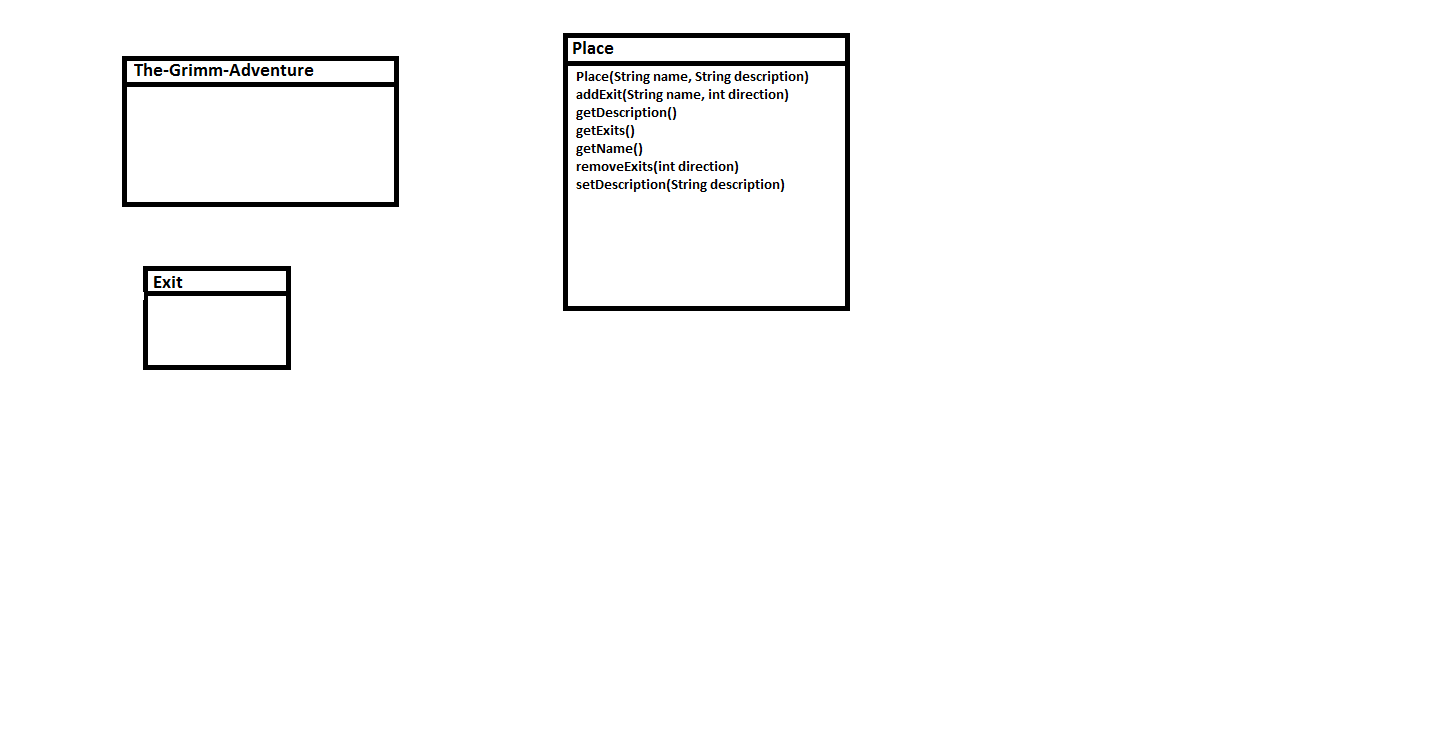
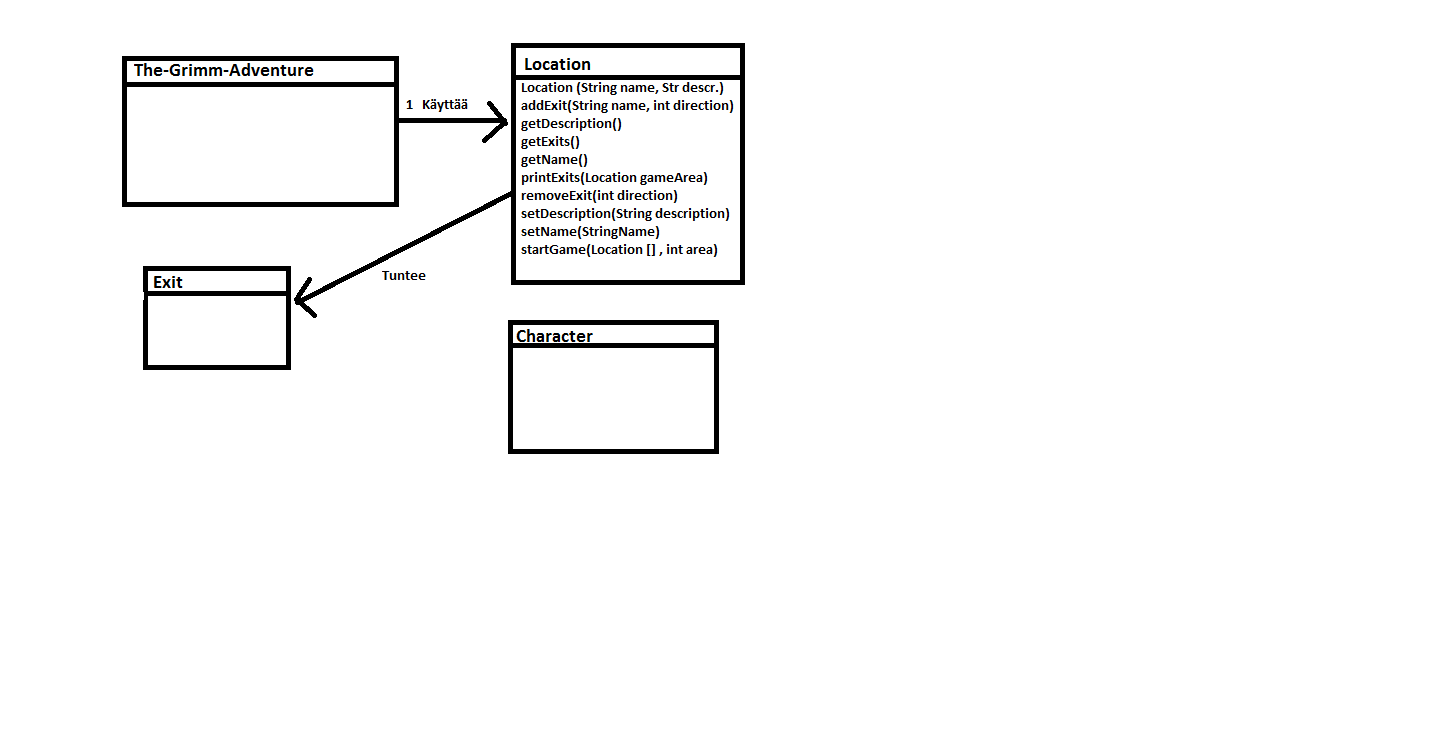
Ohjelman peruslogiikkaa tehty, Place luokka nimetty Locationiksi, Character luokka tehty, ei viela kaytossa, luokkakaavio uudelleen.

diff --git a/The-Grimm-Adventure/test/GrimmTest.java b/The-Grimm-Adventure/test/GrimmTest.java
@@ -3,7 +3,8 @@
  * and open the template in the editor.
  */
 
-import grimm.Place;
+import grimm.Location;
+import grimm.TheGrimmAdventure;
 import junit.framework.Assert;
 import org.junit.After;
 import org.junit.AfterClass;
@@ -41,22 +42,22 @@ public class GrimmTest {
     
     @Test
     public void constructorsNamingWorks() {
-        Place cave;
-        cave = new Place("Cave", "You are in a cave.");
+        Location cave;
+        cave = new Location("Cave", "You are in a cave.");
         Assert.assertEquals(cave.getName(), "Cave");
     }
     @Test
     public void constructorsDescriptionWorks() {
-        Place cave;
-        cave = new Place("Cave", "You are in a cave.");
+        Location cave;
+        cave = new Location("Cave", "You are in a cave.");
         Assert.assertEquals(cave.getDescription(), "You are in a cave.");
     }
     
     @Test
     public void constructTwoPlaces() {
-        Place cave,mine;
-        cave = new Place("Cave", "You are in a cave.");
-        mine = new Place("Mine", "You are in a mine.");
+        Location cave,mine;
+        cave = new Location("Cave", "You are in a cave.");
+        mine = new Location("Mine", "You are in a mine.");
         Assert.assertEquals(cave.getName(), "Cave");
         Assert.assertEquals(mine.getName(), "Mine");
         Assert.assertEquals(cave.getDescription(), "You are in a cave.");
@@ -65,16 +66,16 @@ public class GrimmTest {
     
     @Test
     public void setNameWorks() {
-        Place cave;
-        cave = new Place("Cave", "You are in a cave.");
+        Location cave;
+        cave = new Location("Cave", "You are in a cave.");
         cave.setName ("Collapsed Cave");
         Assert.assertEquals(cave.getName(), "Collapsed Cave");
     }
     
     @Test
     public void setDescriptionWorks() {
-        Place cave;
-        cave = new Place("Cave", "You are in a cave.");
+        Location cave;
+        cave = new Location("Cave", "You are in a cave.");
         cave.setDescription("It's dark.");
         Assert.assertEquals(cave.getDescription(), "It's dark.");
     }
@@ -82,8 +83,8 @@ public class GrimmTest {
     @Test
     public void noExits() {
         String [] testi;
-        Place cave;
-        cave = new Place("Cave", "You are in a cave.");
+        Location cave;
+        cave = new Location("Cave", "You are in a cave.");
         testi = cave.getExits();
         for (int i=0;i<10;i++) {
             Assert.assertEquals(testi[i], null);
@@ -93,8 +94,8 @@ public class GrimmTest {
     @Test
     public void oneExit() {
         String [] testi;
-        Place cave;
-        cave = new Place("Cave", "You are in a cave.");
+        Location cave;
+        cave = new Location("Cave", "You are in a cave.");
         cave.addExit ("Mine", 5);
         testi = cave.getExits();
         Assert.assertEquals(testi[5], "Mine"); 
@@ -103,8 +104,8 @@ public class GrimmTest {
     @Test
     public void multipleExits() {
         String [] testi;
-        Place cave;
-        cave = new Place("Cave", "You are in a cave.");
+        Location cave;
+        cave = new Location("Cave", "You are in a cave.");
         cave.addExit ("Mine", 5);
         cave.addExit ("Cave Entrance", 1);
         cave.addExit ("Dead-end", 9);
@@ -117,8 +118,8 @@ public class GrimmTest {
     @Test
     public void removeOneExit() {
         String [] testi;
-        Place cave;
-        cave = new Place("Cave", "You are in a cave.");
+        Location cave;
+        cave = new Location("Cave", "You are in a cave.");
         cave.addExit ("Mine", 5);
         cave.removeExit(5);
         testi = cave.getExits();
@@ -128,8 +129,8 @@ public class GrimmTest {
     @Test
     public void removeAllExits() {
         String [] testi;
-        Place cave;
-        cave = new Place("Cave", "You are in a cave.");
+        Location cave;
+        cave = new Location("Cave", "You are in a cave.");
         cave.addExit ("Mine", 5);
         cave.addExit ("Cave Entrance", 1);
         cave.addExit ("Dead-end", 9);
@@ -142,5 +143,46 @@ public class GrimmTest {
         Assert.assertEquals(testi[9], null);
     }
     
+    @Test
+    public void testMain() {
+        System.out.println("testMain");
+        String[] test;
+        test = new String[3];
+        TheGrimmAdventure.main(test);
+        System.out.println();
+    }
+    
+    @Test
+    public void testStartGame() {
+        System.out.println("testStartGame");
+        Location[] testGame;
+        testGame = new Location [20];
+        testGame[0] = new Location ("Old Woods", "You are at the entrance of an ancient forest.");
+        testGame[0].addExit("Tall Tree", 0);
+        testGame[1] = new Location ("Tall Tree", "You are in a tree.");
+        testGame[1].addExit("Old Woods", 5);
+        testGame[1].startGame(testGame, 1);
+        String[] testi;
+        testi = testGame[1].getExits();
+        Assert.assertEquals(testi[5], "Old Woods");
+        testi = testGame[0].getExits();
+        Assert.assertEquals(testi[0], "Tall Tree");
+        System.out.println();
+    }
+    
+    @Test
+    public void printExitsTest() {
+        System.out.println("printExitsTest");
+        Location[] testGame;
+        testGame = new Location [20];
+        testGame[0] = new Location ("Old Woods", "You are at the entrance of an ancient forest.");
+        testGame[0].addExit("Tall Tree", 0);
+        testGame[0].addExit("Forest Road", 8);
+        testGame[1] = new Location ("Tall Tree", "You are in a tree.");
+        testGame[1].addExit("Old Woods", 5);
+        testGame[0].printExits();
+        testGame[1].printExits();
+        System.out.println();
+    }
 }
     

diff --git a/The-Grimm-Adventure/src/grimm/Location.java b/The-Grimm-Adventure/src/grimm/Location.java
@@ -1,0 +1,64 @@
+/*
+ * To change this template, choose Tools | Templates
+ * and open the template in the editor.
+ */
+package grimm;
+/**
+ *
+ * @author John
+ */
+public class Location {
+    private String locationName;
+    private String locationDescription;
+    private String[] exits;
+    
+    public Location (String name, String description) {
+        locationName = name;
+        locationDescription = description;
+        exits = new String[10];
+    }
+      
+    public void addExit(String name, int direction) {
+        exits[direction] = name;
+    }
+    public void removeExit (int direction) {
+        exits[direction] = null;
+    }
+    public String[] getExits () {
+        return exits;
+    }
+    public String getName() {
+        return locationName;
+    }
+    public String getDescription() {
+        return locationDescription;
+    }
+    public void setDescription(String description) {
+        locationDescription = description;
+    }
+    public void setName(String name) {
+        locationName = name;
+    }
+    // En ole vielä varma mihin laittaisin tämän metodin.
+    public void startGame (Location gameArea[], int area) {
+        TheGrimmAdventure.quit = false;
+        System.out.println("Welcome to The Grimm Adventure.");
+        while (!TheGrimmAdventure.quit) {
+            System.out.println(gameArea[area].getName());
+            System.out.println(gameArea[area].getDescription());
+            gameArea[area].printExits();
+            // Muista poistaa.
+            TheGrimmAdventure.quit = true;
+        }
+    }
+    public void printExits() {
+        System.out.print("There are exits leading: ");
+        for (int i=0; i<10;i++) {
+            if (exits[i] != null) {
+                System.out.print(Exit.directionName[i] + " ");
+            }
+        }
+        System.out.println();
+    }
+}
+

diff --git a/The-Grimm-Adventure/src/grimm/Character.java b/The-Grimm-Adventure/src/grimm/Character.java
@@ -1,0 +1,30 @@
+/*
+ * To change this template, choose Tools | Templates
+ * and open the template in the editor.
+ */
+package grimm;
+
+/**
+ *
+ * @author John
+ */
+public class Character {
+    
+    private String charName;
+    private String charDescription;
+    private String[] charAttributes;
+    
+    private boolean sportsmanship;
+    private boolean brawn;
+    private boolean booksmarts;
+    private boolean storyLore;
+    private boolean bravery;
+    private boolean cowardice;
+    private boolean overweight;
+    private boolean charismatic;
+    
+    public Character (String name, String[] attributes){
+        charName = name;
+        charAttributes = attributes;
+    }
+}

diff --git a/The-Grimm-Adventure/src/grimm/TheGrimmAdventure.java b/The-Grimm-Adventure/src/grimm/TheGrimmAdventure.java
@@ -9,11 +9,19 @@ package grimm;
  * @author John
  */
 public class TheGrimmAdventure {
-
+    public static boolean quit;
+    public static boolean win;
+    
+    static Location[] game;
+    
     /**
      * @param args the command line arguments
      */
     public static void main(String[] args) {
-        // TODO code application logic here
+        game = new Location[20];
+        game[0] = new Location ("Old Woods", "You are at the entrance of an ancient forest.");
+        game[0].addExit("Tall Tree", 0);
+        game[0].startGame(game, 0);
+        
     }
 }

diff --git a/The-Grimm-Adventure/src/grimm/Exit.java b/The-Grimm-Adventure/src/grimm/Exit.java
@@ -19,6 +19,7 @@ public class Exit {
         public static final int NORTHWEST = 7;
         public static final int NORTH = 8;
 	public static final int NORTHEAST = 9;
+        
 
 	public static final String[] directionName = 
 	{ 
@@ -48,5 +49,6 @@ public class Exit {
 		"N",
 		"NE",	
 	};
-
 }
+
+
